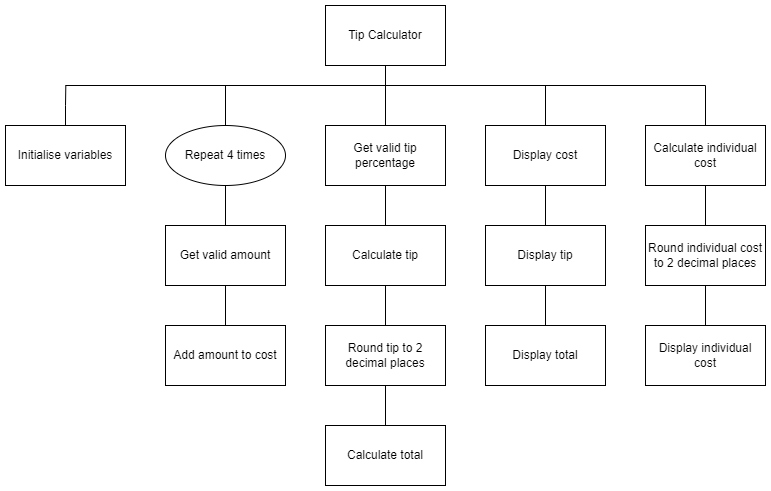
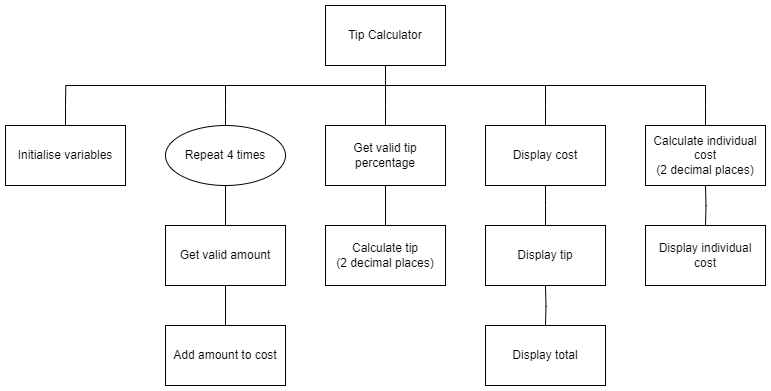
Minor changes

diff --git a/n5/N5-SDD-Tip-Calculator/instructions.md b/n5/N5-SDD-Tip-Calculator/instructions.md
@@ -1,31 +1,51 @@
-# N5 Tip Calculator
+# N5 SDD - Tip Calculator
 
 ## Introduction
 
-Write a program that will help 4 friends work out the cost of a meal, how much to tip, the total, and how much each will pay when they split the bill equally.
+A group of four friends often go out for a meal together and split the bill equally.  An individual meal never costs more than £25, and the friends never tip more than 20%.
 
-The 4 friends never have a meal that costs anyone more than £25, and never tip more than 20%.
+## Task
 
-## User Experience
+Using the top level design below, write a program that will help the friends work out the combined cost of the meals, how much to tip, and the total cost.  Also calculate how much each person will pay when they split the bill.
 
-![Structure diagram](assets/Example.png)
+### Top Level Design (Structure diagram)
 
-## Structure diagram
+![Structure diagram](assets/sd.png)
 
-![Structure diagram](assets/SD.png)
+### Example User Interface
 
-## Maths
+```
+Costs
+-----
+Person 1: 15
+Person 2: 7.50
+Person 3: 9.75
+Person 4: 12.30
+
+Percentage
+----------
+Tip percent: 10
+
+
+Group
+-----
+Meal:  £44.55
+Tip:   £4.46
+-------------
+Total: £49.01
+=============
+
+
+Individual
+----------
+  £12.25
+  ======
+```
+
+### Maths
 
 To calculate the tip:
 
-&nbsp;&nbsp;&nbsp;&nbsp;tip = cost &#215; (tip percent &#247; 100) 
-
-
-## Notes
-
-Be sure to use:
-
-1. Meaningful identifiers
-2. Internal commentary
-3. Whitespace
-4. Indentation
+```
+tip = cost &times; (tip percent &divide; 100) 
+```
